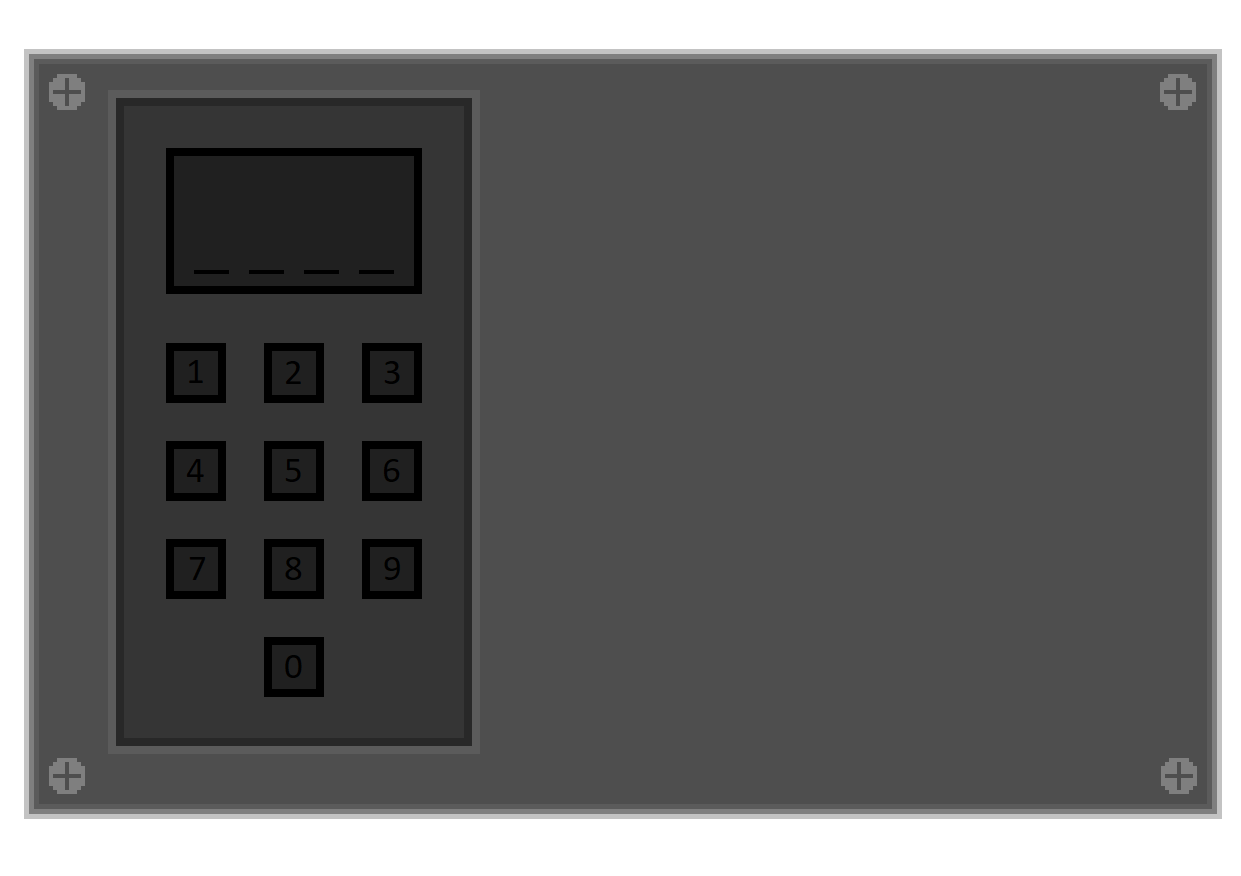
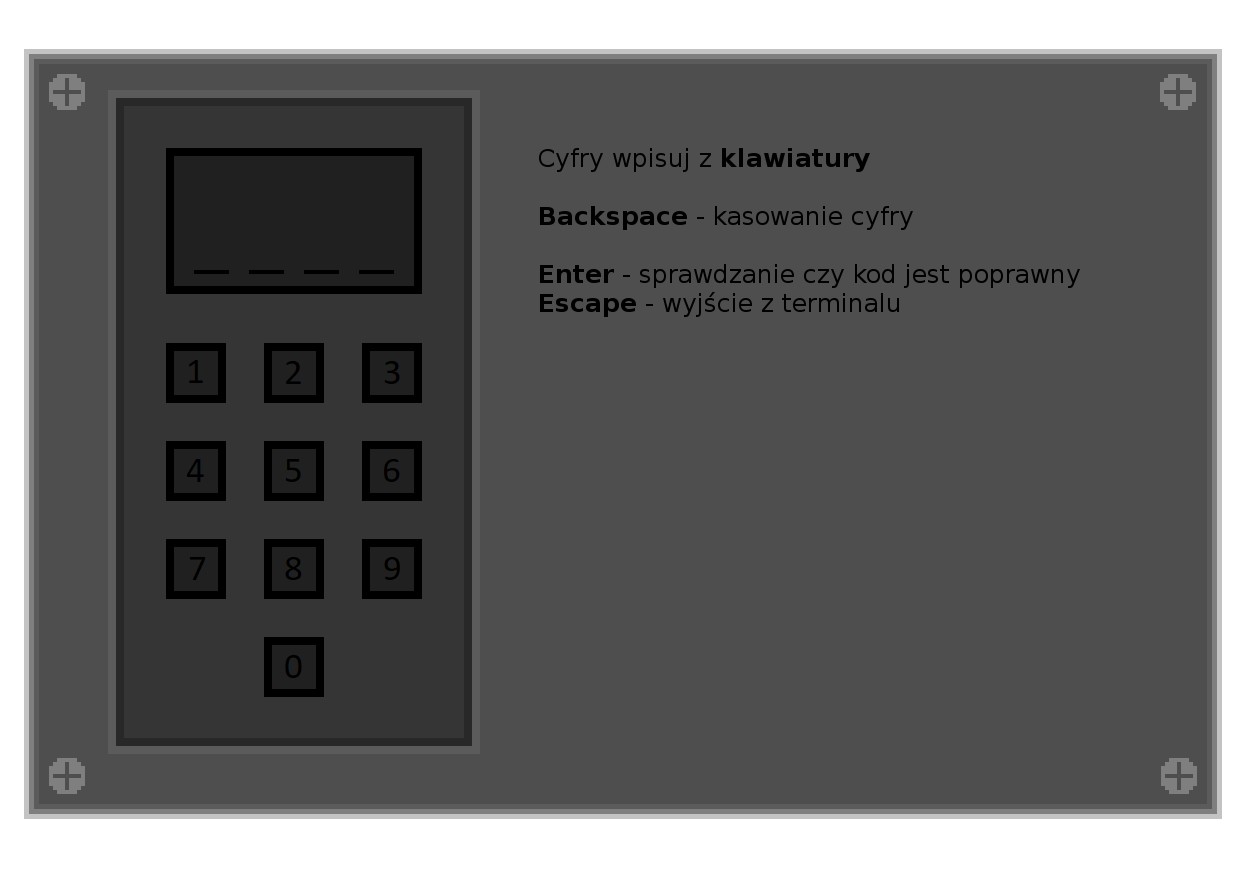
Two exercises are finished

diff --git a/The Future/GameMain.cs b/The Future/GameMain.cs
@@ -32,6 +32,9 @@ namespace The_Future
         private bool IsInExerciseArea;
         private Exercise exercise;
 
+        private bool IsHelloPlayerActive;
+        Texture2D introduce;
+
         public GameMain()
         {
             graphics = new GraphicsDeviceManager(this);
@@ -42,6 +45,8 @@ namespace The_Future
 
         protected override void Initialize()
         {
+            Window.Title = "The Future: Time Escaper";
+
             screenWidth = GraphicsAdapter.DefaultAdapter.CurrentDisplayMode.Width;
             screenHeight = GraphicsAdapter.DefaultAdapter.CurrentDisplayMode.Height;
 
@@ -72,10 +77,10 @@ namespace The_Future
 
             globalSpriteBatchMatrix = Matrix.Multiply(scaleMatrix, translateMatrix);
 
-            Window.Title = "The Future: Time Escaper";
-
             player = new Player(Content);
             map = new Map(@"../../../Content/Maps/map1.txt", Content, player);
+
+            IsHelloPlayerActive = true;
 
             base.Initialize();
 
@@ -84,8 +89,10 @@ namespace The_Future
         protected override void LoadContent()
         {
             spriteBatch = new SpriteBatch(GraphicsDevice);
-            DialogFont = Content.Load<SpriteFont>("Font_Serif12");
+            DialogFont = Content.Load<SpriteFont>("Font_Serif26");
             dialogBox = new DialogBox();
+
+            introduce = Content.Load<Texture2D>("HelloPlayer");
         }
 
         protected override void Update(GameTime gameTime)
@@ -94,16 +101,21 @@ namespace The_Future
             //    Exit();
 
             KeyboardManager.Update();
-            
-            if(IsPlayerMovementBlock == false)
-                player.UpdateVelocity();
 
-            HandlePlayerCollision();
+            if (IsHelloPlayerActive == false)
+            {
 
-            if(IsPlayerMovementBlock == false)
-                player.UpdatePosition();
+                if (IsPlayerMovementBlock == false)
+                    player.UpdateVelocity();
 
-            dialogBox.Update();
+                HandlePlayerCollision();
+
+                if (IsPlayerMovementBlock == false)
+                    player.UpdatePosition();
+
+                dialogBox.Update();
+            }
+
 
             base.Update(gameTime);
         }
@@ -112,39 +124,54 @@ namespace The_Future
         {
             GraphicsDevice.Clear(Color.Black);
 
-            spriteBatch.Begin(SpriteSortMode.Deferred, null, null, null, null, null, globalSpriteBatchMatrix);
-
-            map.DrawLevel(spriteBatch, player);
-            player.Draw(spriteBatch);
-            if (terminal != null && IsInTerminalArea == true)
+            if (IsHelloPlayerActive == true)
             {
-                if (terminal.IsActive == true)
+                SpriteBatch helloSprite = new SpriteBatch(GraphicsDevice);
+                helloSprite.Begin();
+                helloSprite.Draw(introduce, new Rectangle(0, 0, screenWidth, screenHeight), Color.White);
+                if (KeyboardManager.IsKeyPressed(Keys.Enter))
                 {
-                    terminal.DrawTerminal(spriteBatch, Content);
-                    terminal.EnterCode();
-                    terminal.WriteActualCode(spriteBatch, dialogBox.TextScale);
+                    IsHelloPlayerActive = false;
                 }
-                else if (terminal.IsActive == false)
-                {
-                    terminal.WriteSpaceMessage(spriteBatch, dialogBox.TextScale);
-                }
+                helloSprite.End();
             }
-
-            if(exercise != null & IsInExerciseArea == true)
+            else
             {
-                if(exercise.IsActive == true)
+
+                spriteBatch.Begin(SpriteSortMode.Deferred, null, null, null, null, null, globalSpriteBatchMatrix);
+
+                map.DrawLevel(spriteBatch, player);
+                player.Draw(spriteBatch);
+                if (terminal != null && IsInTerminalArea == true)
                 {
-                    exercise.DrawExercise(spriteBatch, Content);
+                    if (terminal.IsActive == true)
+                    {
+                        terminal.DrawTerminal(spriteBatch, Content);
+                        terminal.EnterCode();
+                        terminal.WriteActualCode(spriteBatch, dialogBox.TextScale);
+                    }
+                    else if (terminal.IsActive == false)
+                    {
+                        terminal.WriteSpaceMessage(spriteBatch, dialogBox.TextScale);
+                    }
                 }
-                else if (exercise.IsActive == false)
+
+                if (exercise != null & IsInExerciseArea == true)
                 {
-                    exercise.WriteSpaceMessage(spriteBatch, dialogBox.TextScale);
+                    if (exercise.IsActive == true)
+                    {
+                        exercise.DrawExercise(spriteBatch, Content);
+                    }
+                    else if (exercise.IsActive == false)
+                    {
+                        exercise.WriteSpaceMessage(spriteBatch, dialogBox.TextScale);
+                    }
                 }
+                spriteBatch.End();
+
+                dialogBox.Draw(GraphicsDevice);
+
             }
-            spriteBatch.End();
-
-            dialogBox.Draw(GraphicsDevice);
-
             base.Draw(gameTime);
         }
 

diff --git a/The Future/Game/Map/SpecialObjects/Exercise.cs b/The Future/Game/Map/SpecialObjects/Exercise.cs
@@ -29,7 +29,7 @@ namespace The_Future
             {
                 exerciseTexture = content.Load<Texture2D>(GameProgress.PathsToExercises[exerciseNumber]);
             }
-            spriteBatch.Draw(exerciseTexture, new Rectangle(20, 20, 760, 440), Color.White);
+            spriteBatch.Draw(exerciseTexture, new Rectangle(60, 60, 680, 360), Color.White);
         }
 
         public void WriteSpaceMessage(SpriteBatch spriteBatch, float scale) //scale after calculation

diff --git a/The Future/GameProgress.cs b/The Future/GameProgress.cs
@@ -42,9 +42,9 @@ namespace The_Future
             //PathsToExercises[1] = "AtlasA";
 
             PathsToExercises[0] = "1";
-            PathsToExercises[1] = "Exercises/2";
-            PathsToExercises[2] = "Exercises/3";
-            PathsToExercises[3] = "Exercises/4";
+            PathsToExercises[1] = "2";
+            PathsToExercises[2] = "3";
+            PathsToExercises[3] = "4";
         }
 
         //public static void SetDoorsValue()

diff --git a/The Future/Game/Map/Map.cs b/The Future/Game/Map/Map.cs
@@ -29,7 +29,7 @@ namespace The_Future
                     playerSpawn = MapAttributes.PlayerTransitionFromLevel[MapAttributes.PreviousMapName];
                 }
 
-                player.SetPosition(playerSpawn);
+                 player.SetPosition(playerSpawn);
             }
              catch { }
         }
